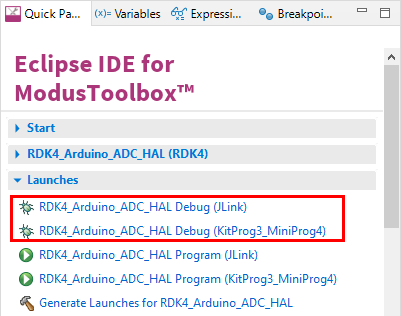
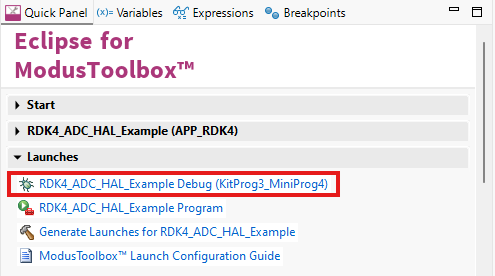
mrb 3.7 updates.

Changed region(s): [[0.0, 0.5507, 0.8678, 0.9855], [0.0, 0.0, 1.0, 1.0], [0.0299, 0.3478, 0.5387, 0.5217]]

diff --git a/README.md b/README.md
@@ -8,12 +8,12 @@ This example demonstrates how to use the HAL library to measure all the ADC chan
 
 ## Requirements
 
-- [ModusToolbox™ software](https://www.cypress.com/products/modustoolbox-software-environment) v2025.4.0
+- [ModusToolbox™ software](https://www.cypress.com/products/modustoolbox-software-environment) v3.7
 - The latest hardware release [RDK4 Rev2](https://github.com/RutronikSystemSolutions/RDK4_Hardware_Files).
 
 ## Supported toolchains (make variable 'TOOLCHAIN')
 
-- GNU Arm&reg; Embedded Compiler v11.3.1 (`GCC_ARM`) - Default value of `TOOLCHAIN`
+- GNU Arm&reg; Embedded Compiler v14.2.1 (`GCC_ARM`) - Default value of `TOOLCHAIN`
 
 ## Using the code example
 
@@ -54,7 +54,7 @@ The firmware example uses KitProg3 Debug UART for the debug output. The ADC peri
 static void adc_continuous_event_handler(void* arg, cyhal_adc_event_t event)
 ```
 
-The ADC initialization is done in a function:
+The ADC initialisation is done in a function:
 
 ```
 cy_rslt_t app_hw_init(void)
@@ -66,13 +66,13 @@ The data is read from the data array and printed to the terminal every second:
 
 ### Debugging
 
-If you successfully have imported the example, the debug configurations are already prepared to use with a the KitProg3, MiniProg4, or J-link. Open the ModusToolbox™ perspective and find the Quick Panel. Click on the desired debug launch configuration and wait for the programming to complete and the debugging process to start.
+If you have successfully imported the example, the debug configurations are already prepared to use with the KitProg3 and MiniProg4. Open the ModusToolbox™ perspective and find the Quick Panel. Click the desired debug launch configuration, then wait for programming to complete and debugging to start.
 
 <img src="images/debug_start.png" style="zoom:100%;" />
 
 #### SBC Development Mode
 
-A special mode, called SBC Development Mode, is available during software development or debugging of the system. The watchdog counter is stopped and does not need to be triggered. This mode can be accessed by setting the TEST [**FO3**] pin to GND during SBC Init Mode.
+A special mode, called SBC Development Mode, is available for software development or system debugging. The watchdog counter is stopped and does not need to be triggered. This mode can be accessed by setting the TEST [**FO3**] pin to GND during SBC Init Mode.
 
 ## Legal Disclaimer
 
